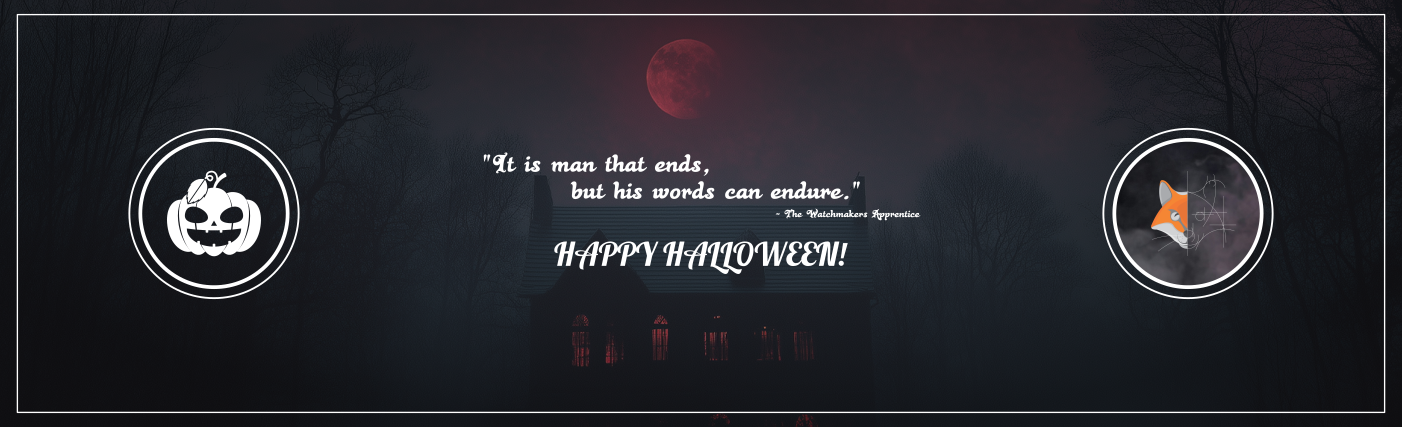
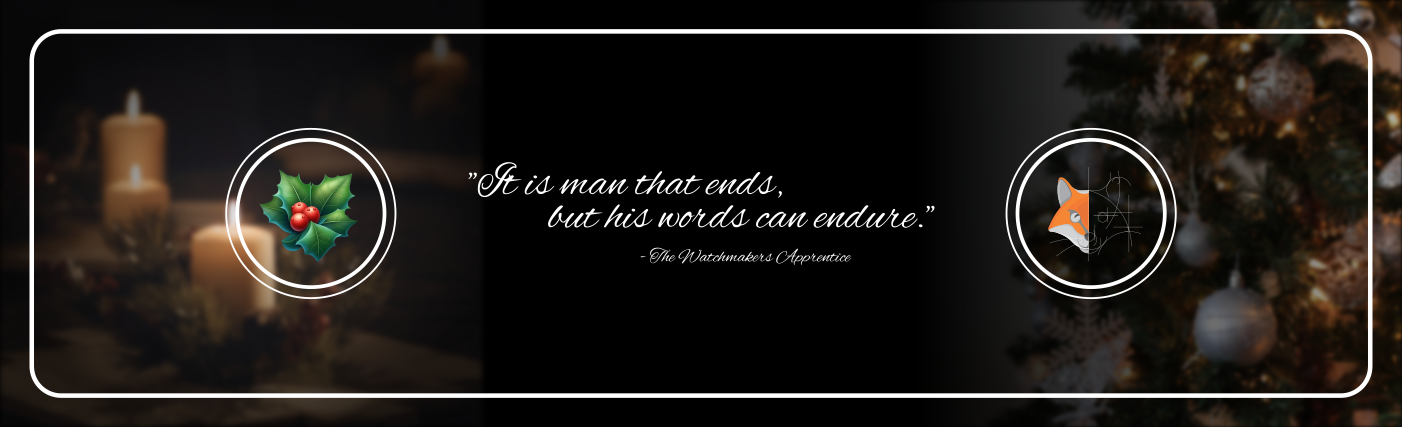
Updated Christmas design

diff --git a/README.md b/README.md
@@ -1,4 +1,4 @@
-# 👻 Welcome to Asanka's GitHub Profile
+# ❄ Welcome to Asanka's GitHub Profile
 
 ![I'm a tech nerd and a coding enthusiast](./.sources/Cover.png)
 
